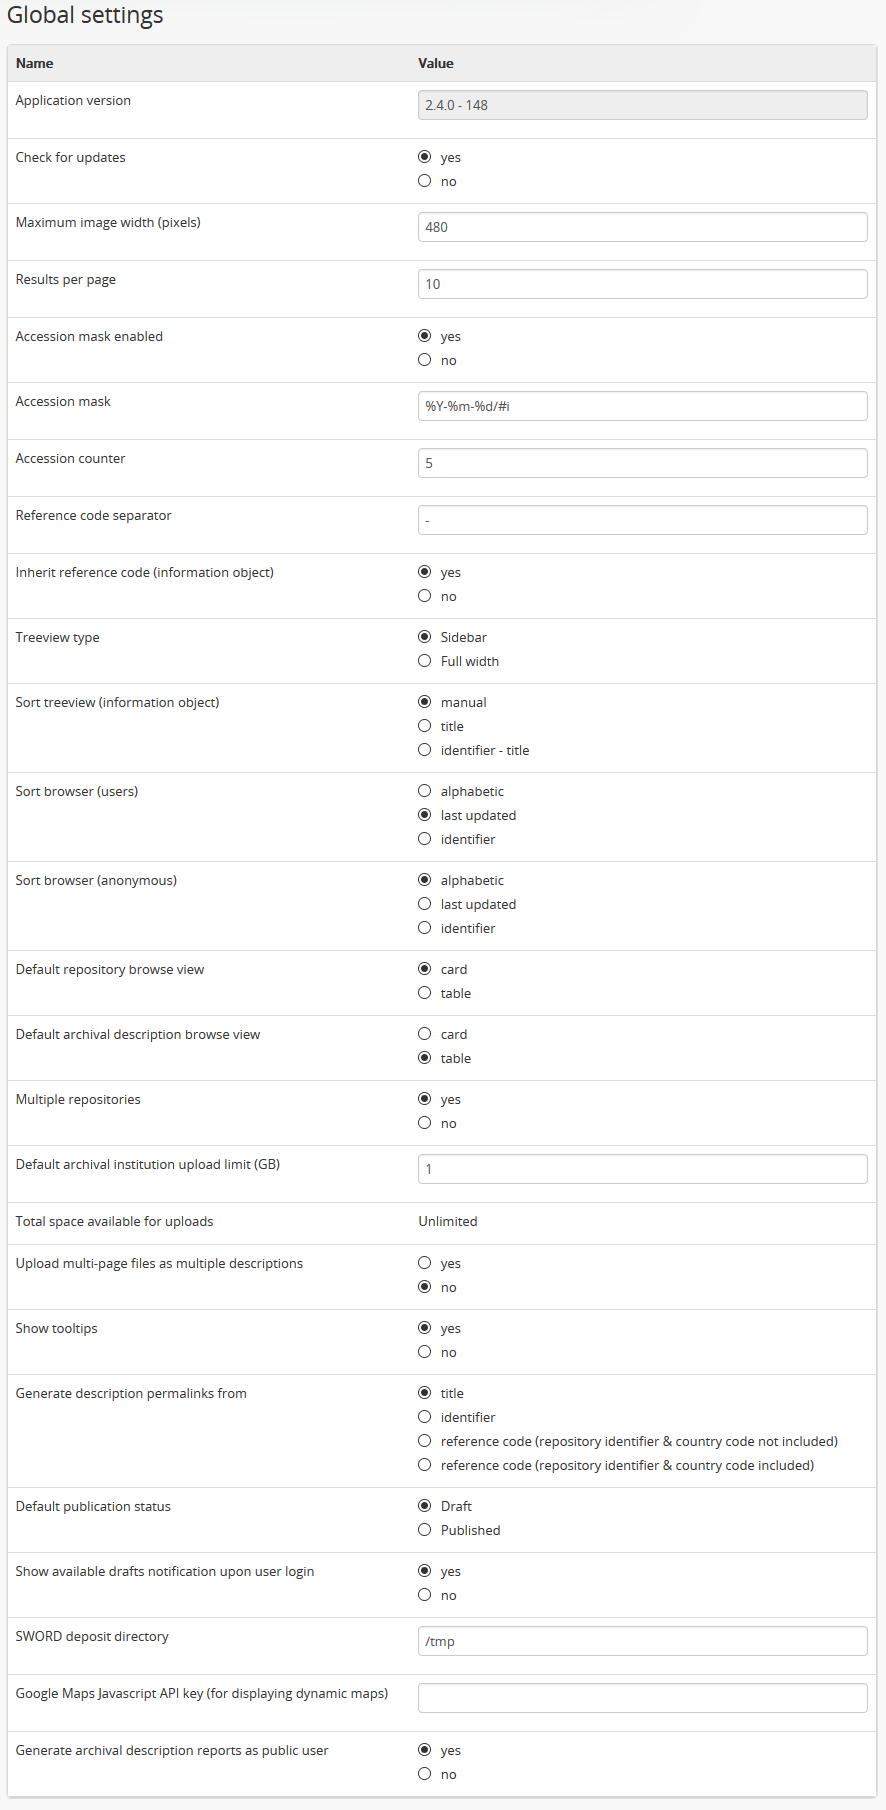
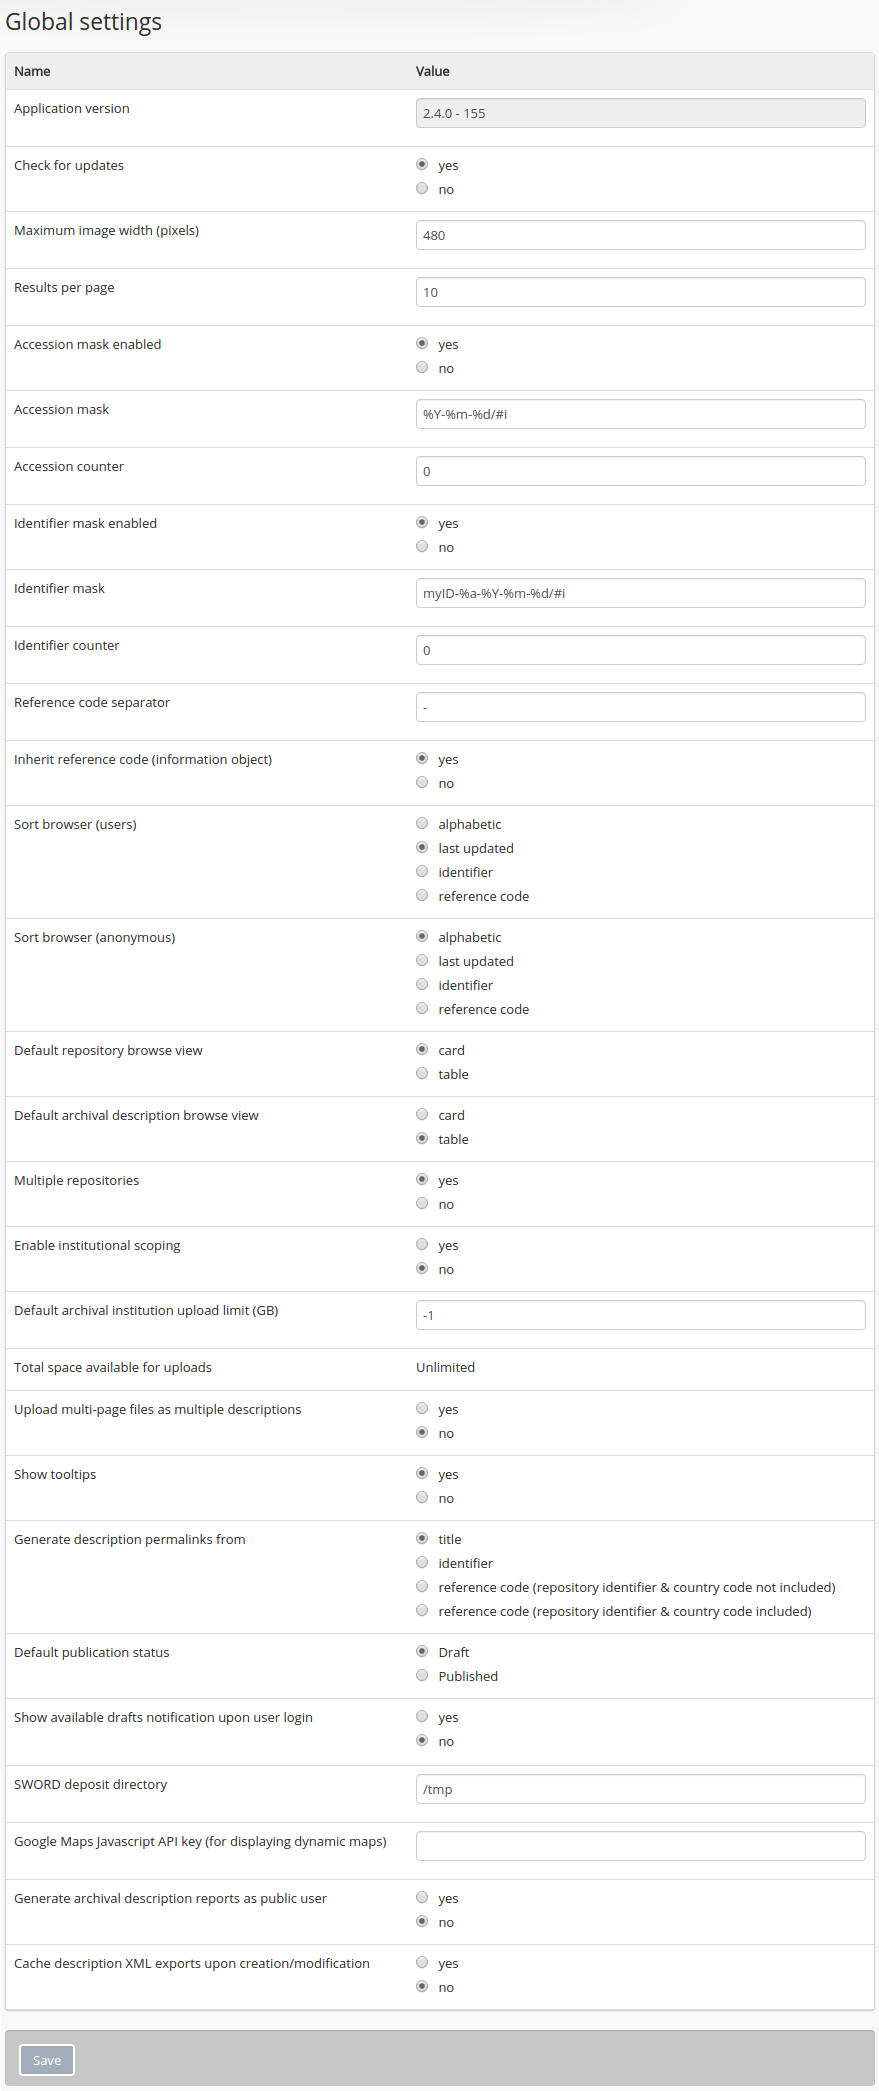
Added documentation for identifier mask feature and updated global settings screenshot.

Changed region(s): [[0.0, 0.0309, 1.0, 1.0], [0.0, 0.0, 0.3072, 0.4022]]

diff --git a/user-manual/administer/settings.rst b/user-manual/administer/settings.rst
@@ -70,6 +70,8 @@ This section will describe each :term:`field` in the "Global"
 * :ref:`Results per page <results-page>`
 * :ref:`Accession mask <accession-mask>`
 * :ref:`Accession counter <accession-counter>`
+* :ref:`Identifier mask <identifier-mask>`
+* :ref:`Identifier counter <identifier-counter>`
 * :ref:`Reference code separator <reference-code-separator>`
 * :ref:`Inherit reference code (Information object) <inherit-reference-code>`
 * :ref:`Treeview type <treeview-type>`
@@ -205,6 +207,35 @@ AtoM provides you with the number of :term:`accessions <accession record>`
 created. If you delete an accession, it will still be included in the Accession
 counter total value. If this number is changed by an administrator, the next
 accession created will receive the next number in sequence.
+
+.. _identifier-mask:
+
+Identifier mask
+---------------
+
+By enabling the identifier mask, all descriptions created through the user interface
+will be assigned an identifier based on a pre-defined pattern. This pattern can
+be customized using text strings and `PHP strftime parameters <http://php.net/manual/en/function.strftime.php#refsect1-function.strftime-parameters>`_.
+For example, providing the identifier mask *Archives-%Y-%m-%d/#i* will result in
+a description with the identifier **Archives-2017-01-31/1**. The final parameter,
+*#i*, represents the :ref:`identifier-counter`.
+
+It is possible to replace an identifier with one based on the identifier mask by
+editing a description and selecting *Generate identifier* below the identifier field.
+
+.. _identifier-counter:
+
+Identifier counter
+------------------
+
+The identifier counter defines incremental integer at the end of the identifier,
+represented in the identifier mask as *#i*. The counter indicates the next number
+that will be used for the integer, so if the number is currently at *259* then the
+identifier will be **Archives-2017-01-31/259**. It is possible to set the identifier
+counter to begin at a specific integer.
+
+Deleting an archival description will not affect the counter - it simply adds the
+next integer, rather than looking for unused integers.
 
 .. _reference-code-separator:
 
@@ -1192,5 +1223,3 @@ digital object can be attached and uploaded.
 
 
 :ref:`Back to top <settings>`
-
-
